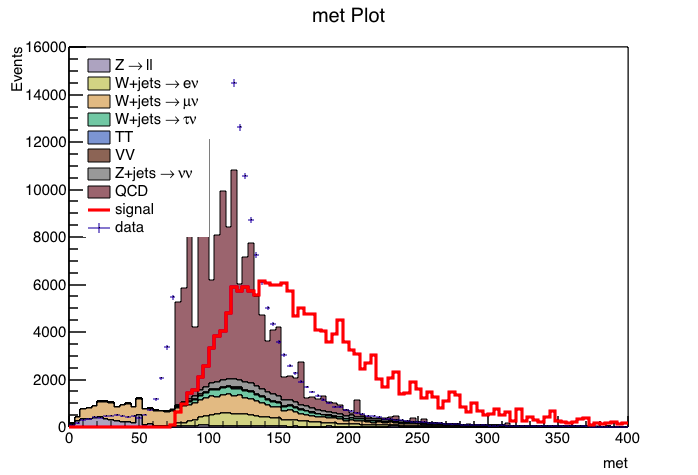
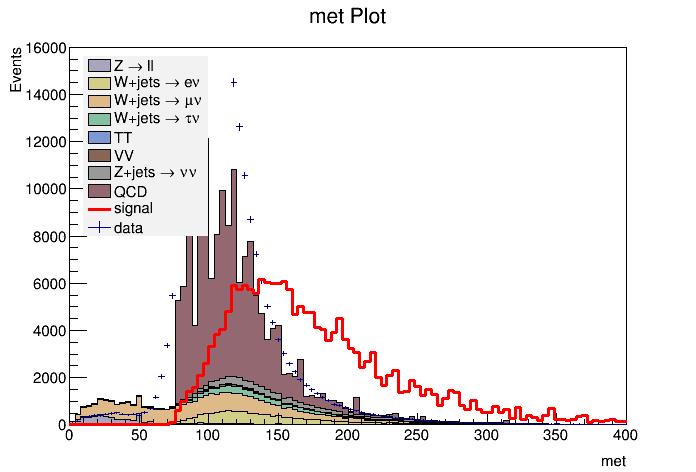
added command line entry for number of bins

diff --git a/src/main.cpp b/src/main.cpp
@@ -4,7 +4,15 @@
 #include <initializer_list>
 #include <cmath>
 
-void produce_graphs() {
+
+  char* int_to_char(int int_to_convert){
+	char char_of_int[5];
+	sprintf(char_of_int, "%d", int_to_convert);
+	return char_of_int;
+}
+
+
+void produce_graphs(int bin_number) {
   DataChain* bg_zll = new DataChain(z_ll, z_ll_label, z_ll_legend);
   DataChain* bg_wjets_ev = new DataChain(wjets_ev, wjets_ev_label, wjets_ev_legend);
   DataChain* bg_wjets_muv = new DataChain(wjets_muv, wjets_muv_label, wjets_muv_legend);
@@ -16,11 +24,13 @@ void produce_graphs() {
   DataChain* mc_signal = new DataChain(mc_signal_data, mc_signal_label, mc_signal_legend);
    
   DataChain* data_chain = new DataChain(data, data_label, data_legend);
-
+  
+  char* bin_num_str={int_to_char(bin_number)};
+  std::cout << bin_num_str <<".\n";
   const char* weight = "total_weight_lepveto";
   const char* vars[][6] = { 
                         // {varaible to plot, bins, xmin, xmax, legend position, signal_multiplier}
-                        {"met", "100", "0.0", "400.0", "right", "100"}
+                        {"met", bin_num_str, "0.0", "400.0", "right", "100"}
                       };
 
   for(int i = 0; i < 37; i++) {
@@ -46,14 +56,18 @@ void produce_graphs() {
 	//create vector of datachain pointers
     DataChain* bg_arr[] = {bg_zll, bg_wjets_ev, bg_wjets_muv, bg_wjets_tauv, bg_top, bg_vv, bg_zjets_vv, bg_qcd}; // create array of pointers
     std::vector<DataChain*> bg (bg_arr, bg_arr+ sizeof(bg_arr)/sizeof(DataChain*));
-    //draw_stacked_histoplots(bg, mc_signal, data_chain, vars[i][0], selection, signal_multiplier, bins, x_min, x_max, vars[i][3], true);
-    bg_zll->scale_bins_for_cut("100", "0", "100", "50", "100");
+    draw_stacked_histoplots(bg, mc_signal, data_chain, vars[i][0], selection, signal_multiplier, bins, x_min, x_max, vars[i][3], true);
+    //bg_zll->scale_bins_for_cut("100", "0", "100", "50", "100");
   }
 }
 
 int main(int argc, char** argv) {
   TApplication theApp("tapp", &argc, argv);
-  produce_graphs();
+    int i;
+    std::cout << "Please enter a bin number:";
+    std::cin >> i;
+
+produce_graphs(i);
 
   theApp.Run();
   

diff --git a/include/plotting.h b/include/plotting.h
@@ -46,7 +46,7 @@ void draw_stacked_histoplots(std::vector<DataChain*> bg_chains, DataChain* signa
 
   TH1F* data_histo = data->draw_data(variable_name, selection, bins, x_min, x_max);
   legend_bg->AddEntry(data_histo, data->legend, "lep");
-    
+
   std::string file_parts(variable_name);
   file_parts.append("_");
   file_parts.append(bins);
@@ -69,7 +69,7 @@ void draw_stacked_histoplots(std::vector<DataChain*> bg_chains, DataChain* signa
   legend_bg->Draw();
 
   c1->SaveAs(file_name);
-  c1->Close();
+  //c1->Close();
 }
 
 #endif

diff --git a/include/data_chain.h b/include/data_chain.h
@@ -13,6 +13,7 @@
 #include <iostream>
 #include <vector>
 #include <stdio.h>
+#include <stdlib.h>
 
 extern const char* build_string(std::vector<const char*> pchars);
 
@@ -252,6 +253,7 @@ public:
   TH1F* set_error_bars(TH1F* hist);
   char* scale_bins_for_cut(const char* bins, const char* x_minc_nocut, const char* x_maxc_nocut, const char* x_minc_cut, const char* x_maxc_cut);
   const char* build_var_string(const char* variable_name, const char* x_min, const char* x_max);
+  //char* int_to_char(int int_to_convert);
 };
 
 #endif

diff --git a/src/data_chain.cpp b/src/data_chain.cpp
@@ -119,6 +119,13 @@ char* DataChain::scale_bins_for_cut(const char* binsc, const char* x_minc_nocut,
   return scaled_bins;
 }
 
+/*char* DataChain::int_to_char(int int_to_convert){
+	char char_of_int[20];
+	sprintf(char_of_int, "%d", int_to_convert);
+	return char_of_int;
+}
+*/
+
 TH1F* DataChain::set_error_bars(TH1F* hist) {
   int nbins = hist->GetNbinsX();
   
